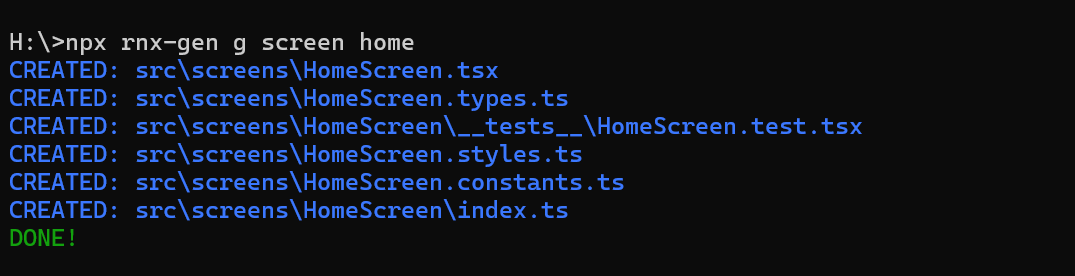
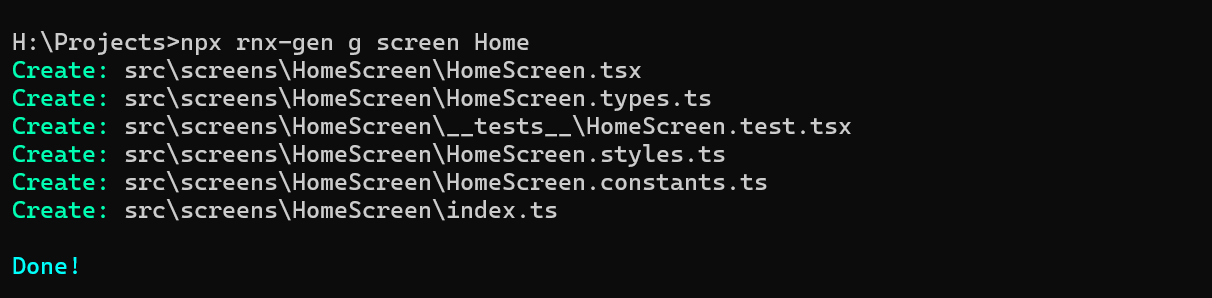
docs: update readme

Changed region(s): [[0.0, 0.087, 0.7981, 0.9275]]

diff --git a/commands/createScreen.js b/commands/createScreen.js
@@ -189,18 +189,18 @@ export const useStyles = () => {
   }
 
   async function executeInDryRunMode() {
-    consoleCreate(path.normalize(`${basePath}/${name}.tsx`));
-    consoleCreate(path.normalize(`${basePath}/${name}.types.ts`));
+    consoleCreate(path.normalize(`${basePath}/${name}/${name}.tsx`));
+    consoleCreate(path.normalize(`${basePath}/${name}/${name}.types.ts`));
     if (options?.test) {
       consoleCreate(
         path.normalize(`${basePath}/${name}/__tests__/${name}.test.tsx`)
       );
     }
     if (options?.style) {
-      consoleCreate(path.normalize(`${basePath}/${name}.styles.ts`));
+      consoleCreate(path.normalize(`${basePath}/${name}/${name}.styles.ts`));
     }
     if (options?.const) {
-      consoleCreate(path.normalize(`${basePath}/${name}.constants.ts`));
+      consoleCreate(path.normalize(`${basePath}/${name}/${name}.constants.ts`));
     }
     consoleCreate(path.normalize(basePath + `/${name}/index.ts`));
     consoleDryRunMessage();

diff --git a/README.md b/README.md
@@ -45,6 +45,7 @@ src
 | --no-style  | Do not create the styles file                                    |
 | --path      | Custom path beginning with src (example --path=src/screens/auth) |
 | --keep-name | Use the resource name provided as an option without modification |
+| --dry-run   | Simulate command execution without creating any files            |
 
 ### 2. Generate files for a new component with boilerplate code for each file
 
@@ -74,6 +75,7 @@ src
 | --no-style  | Do not create the styles file                                        |
 | --path      | Custom path beginning with src (example --path=src/components/cards) |
 | --keep-name | Use the resource name provided as an option without modification     |
+| --dry-run   | Simulate command execution without creating any files                |
 
 ### 3. Generate a new hook file with boilerplate code
 
@@ -100,6 +102,7 @@ src
 | --no-dir    | Do not create a separate folder for the hook                     |
 | --path      | Custom path beginning with src (example --path=src/hooks/data)   |
 | --keep-name | Use the resource name provided as an option without modification |
+| --dry-run   | Simulate command execution without creating any files            |
 
 ### 4. Generate a new Redux slice with boilerplate code
 
@@ -122,6 +125,7 @@ src
 | ----------- | ------------------------------------------------------------------ |
 | --path      | Custom path beginning with src (example --path=src/redux/reducers) |
 | --keep-name | Use the resource name provided as an option without modification   |
+| --dry-run   | Simulate command execution without creating any files              |
 
 ### 5. Set up Redux files (Redux toolkit) with boilerplate code for each file
 
@@ -142,3 +146,17 @@ src
         |-store.ts
         |-store.utils.ts
 ```
+
+#### Command options:
+
+| Option    | Descriptions                                          |
+| --------- | ----------------------------------------------------- |
+| --dry-run | Simulate command execution without creating any files |
+
+## Dry run
+#### Execute any command with the --dry-run option to simulate file creation
+#### Example:
+```bash
+npx rnx-gen g screen Splash --dry-run 
+```
+![dry run example](https://github.com/Balthazar33/rnx-gen/blob/main/assets/dry-run-ss.png?raw=true)
